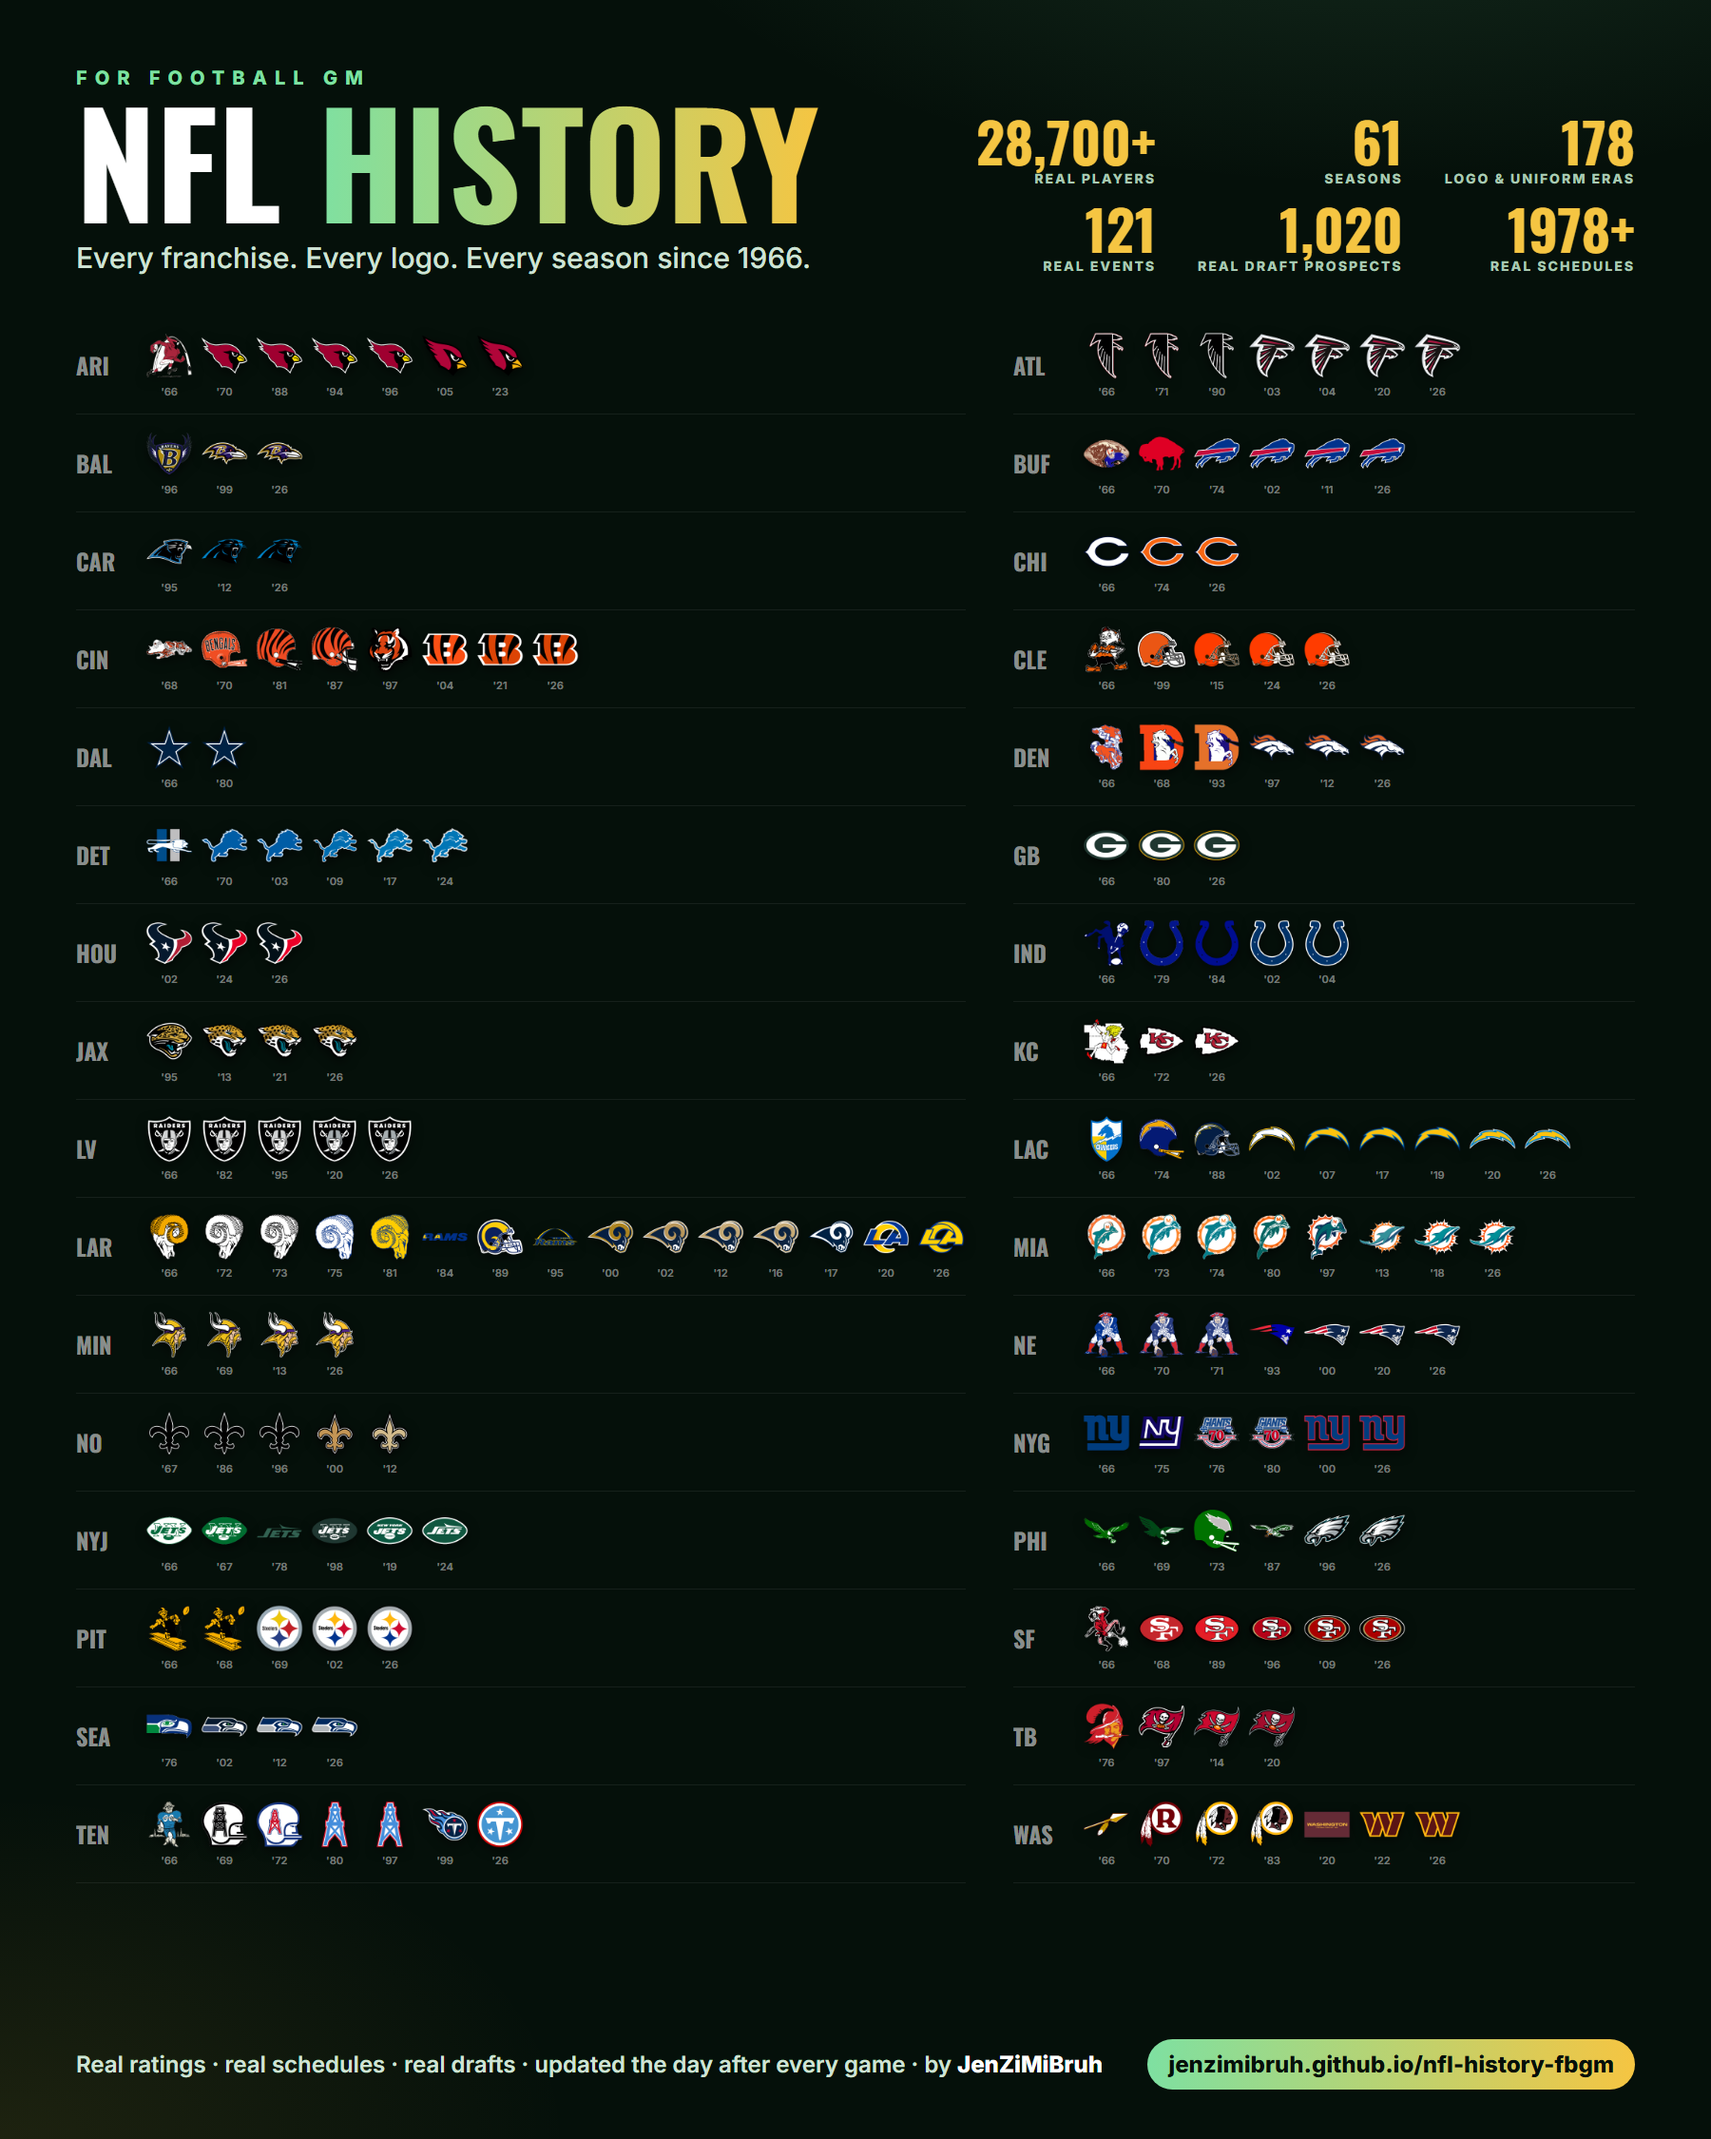
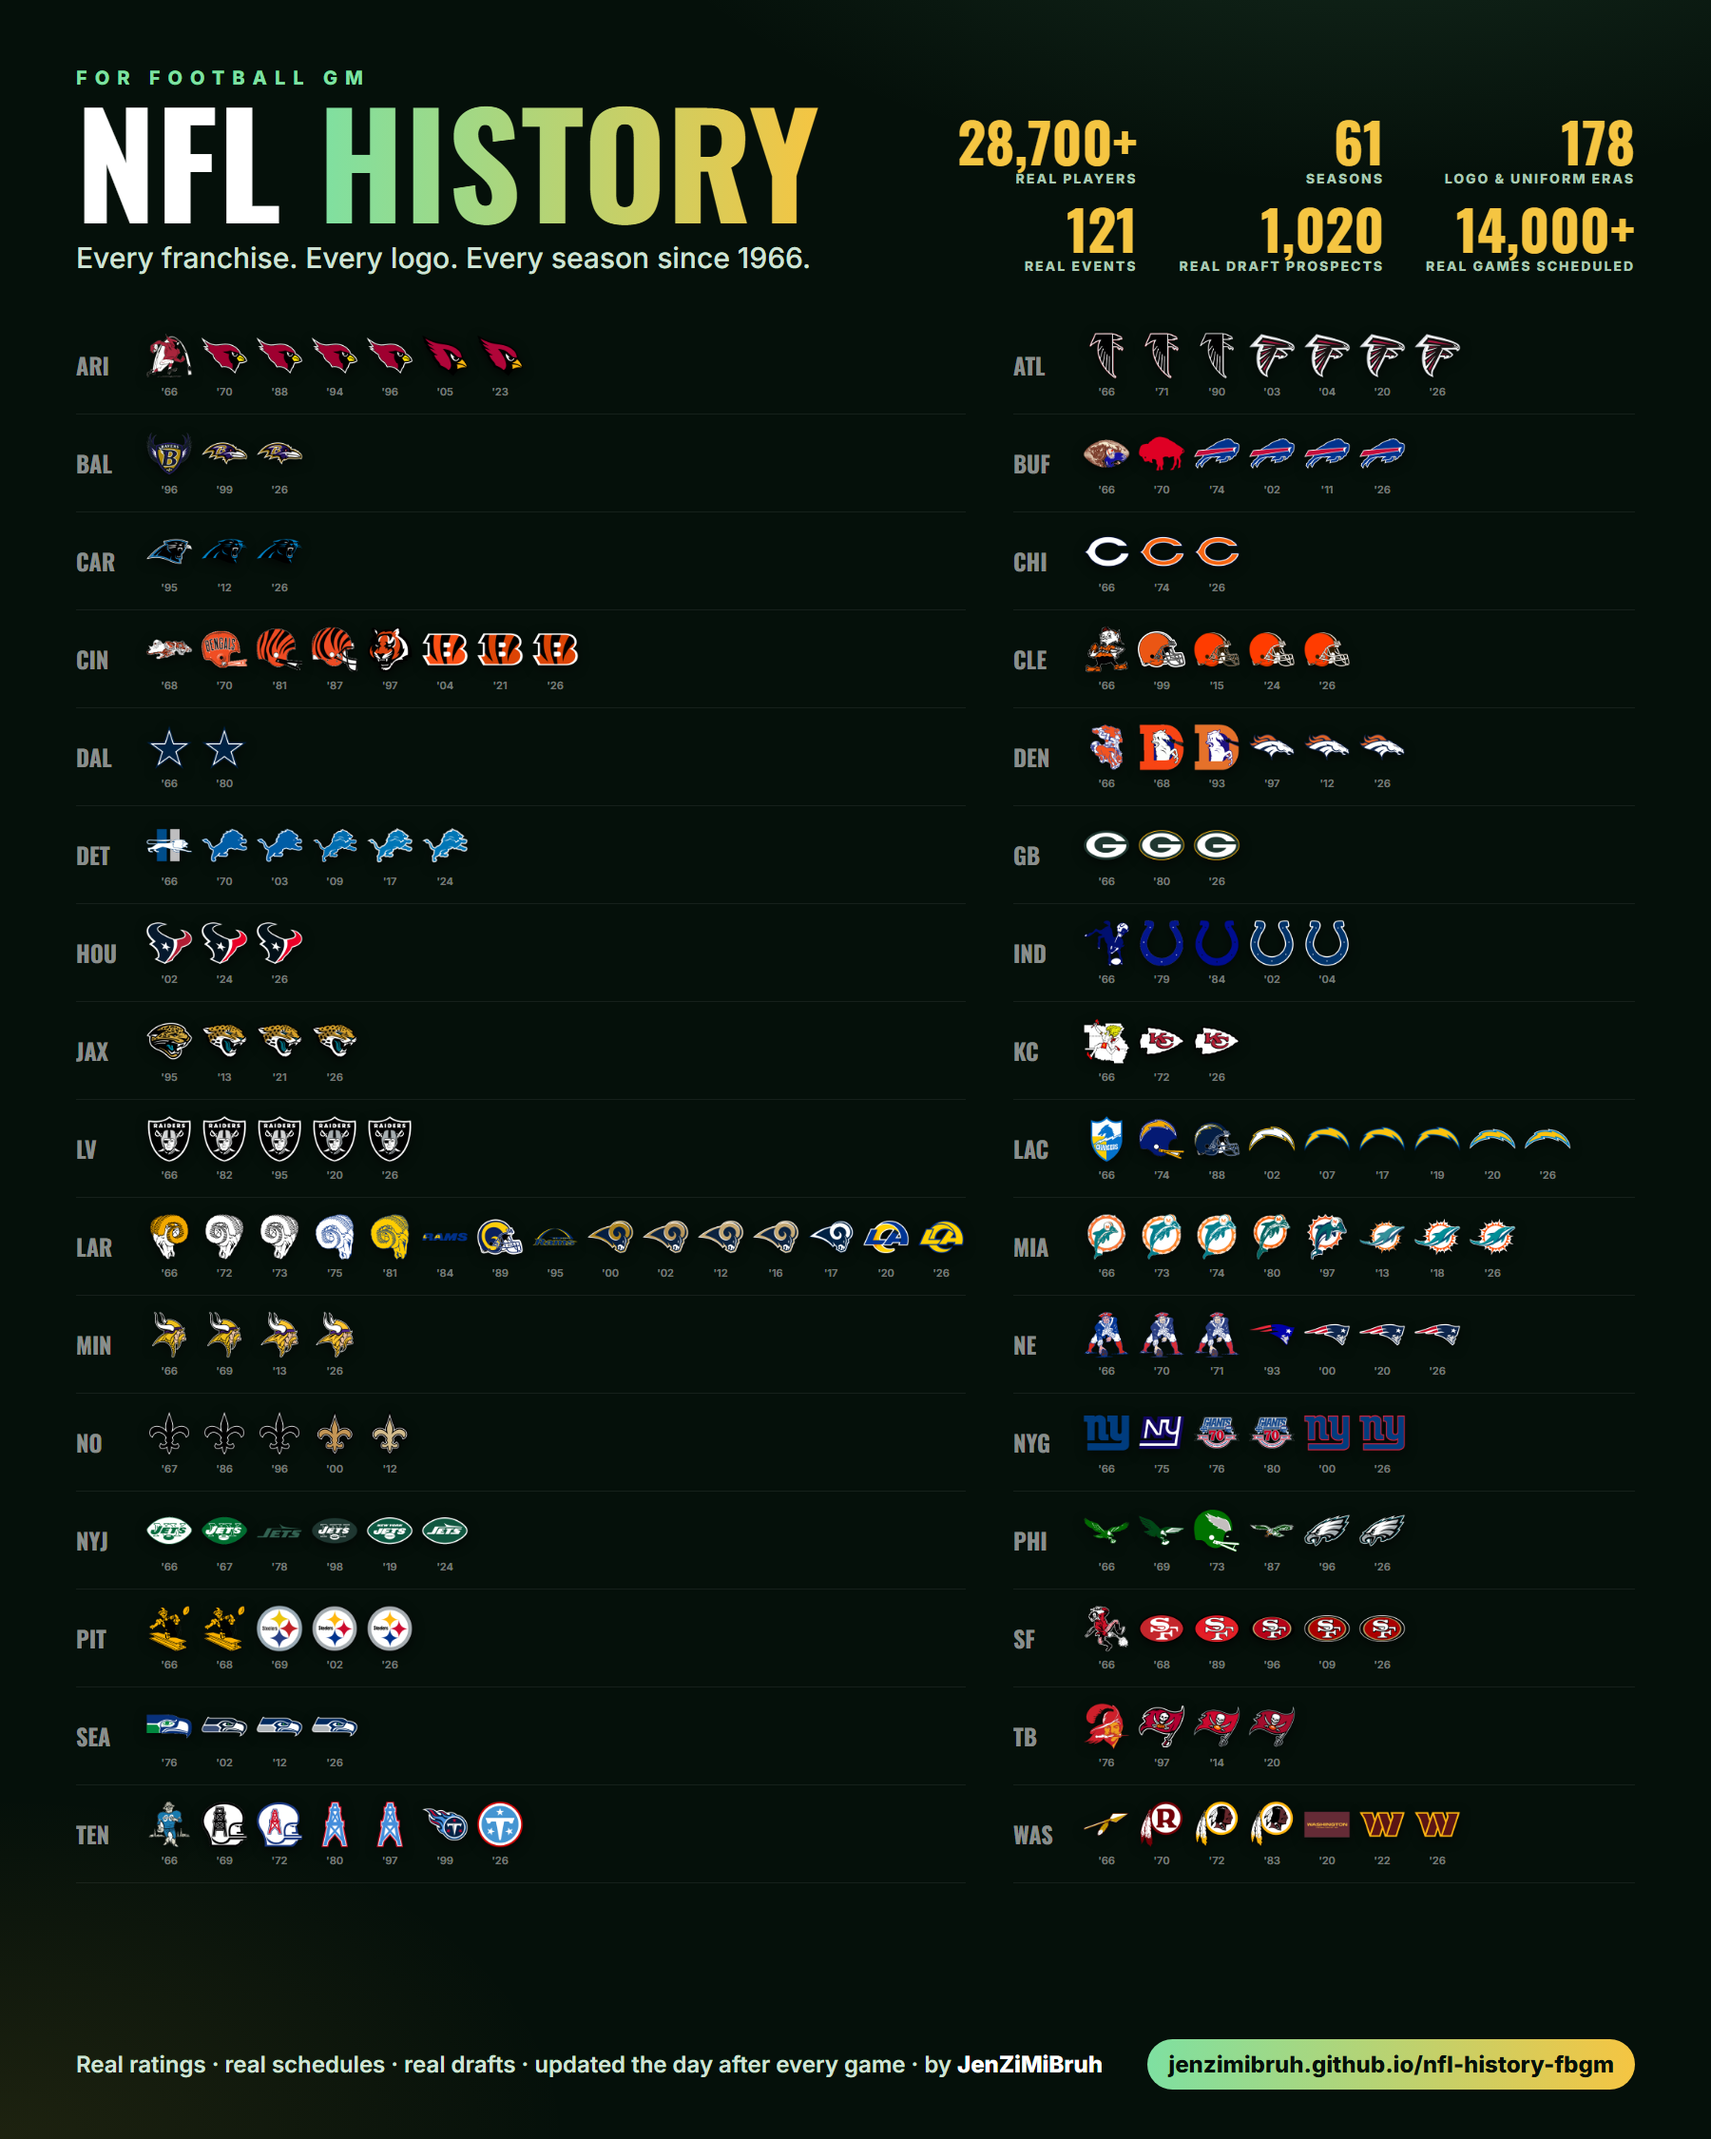
Real schedules go back to 1966, not 1978: fix the wording everywhere; poster counts 14,000+ real games

Changed region(s): [[0.7156, 0.0311, 0.9333, 0.1244], [0.56, 0.0311, 0.6844, 0.1244]]

diff --git a/site/index.html b/site/index.html
@@ -379,7 +379,7 @@ footer small{display:block;opacity:.7;margin-top:8px;max-width:520px}
   <p class="muted" style="max-width:680px">The league file works in stock Football GM. The mod keeps it real after day one, and every piece is a setting you can turn off.</p>
   <div class="feat">
     <div class="f"><div class="ico">📈</div><h3>RPD</h3><p>Real Player Determinism. Careers follow the real one: Jerry Rice plays into his 40s, Barry Sanders walks away. One slider from random to exactly real.</p></div>
-    <div class="f"><div class="ico">🗓</div><h3>Real schedules</h3><p>From 1978 on, every season plays its real schedule: same opponents, same weeks, same byes. Strike seasons included.</p></div>
+    <div class="f"><div class="ico">🗓</div><h3>Real schedules</h3><p>Every season since 1966 plays its real schedule: same opponents, same weeks, same byes. Pre-merger AFL and NFL slates and strike seasons included.</p></div>
     <div class="f"><div class="ico">🎯</div><h3>Real drafts</h3><p>Elway, Manning, Stafford. The real players go to the teams that really took them.</p></div>
     <div class="f"><div class="ico">📰</div><h3>121 real events</h3><p>Retirements, comebacks to the real team, suspensions for the real number of games, each with the real reason.</p></div>
     <div class="f"><div class="ico">🔁</div><h3>Rosters &amp; moves</h3><p>Historical rosters every preseason, mid-season trades on the real week, real jersey numbers, numbers retired when they really were.</p></div>

diff --git a/tools/graphics/poster.html b/tools/graphics/poster.html
@@ -26,7 +26,7 @@ footer b{color:#fff}.pill{background:linear-gradient(90deg,#7ee0a1,#f5c542);colo
   <div class="sub">Every franchise. Every logo. Every season since 1966.</div></div>
   <div class="stats">
     <div><b>28,700+</b><span>real players</span></div><div><b>61</b><span>seasons</span></div><div><b>178</b><span>logo &amp; uniform eras</span></div>
-    <div><b>121</b><span>real events</span></div><div><b>1,020</b><span>real draft prospects</span></div><div><b>1978+</b><span>real schedules</span></div>
+    <div><b>121</b><span>real events</span></div><div><b>1,020</b><span>real draft prospects</span></div><div><b>14,000+</b><span>real games scheduled</span></div>
   </div>
 </header>
 <div class="grid" id="grid"></div>

diff --git a/README.md b/README.md
@@ -147,7 +147,7 @@ Sim past today and you're not drafting made-up players. The 2027, 2028 and 2029 
 | ⭐ **Ratings for everyone** | Built from real production, including the players with almost no stats ([how](docs/ratings.md)) |
 | 🏆 **Awards & honors** | MVP, OPOY/DPOY, rookies, Super Bowl MVP, All-Pro, Pro Bowl, Hall of Fame with induction years, retired numbers |
 | 🎨 **Logos & jerseys by era** | 146 looks in high resolution, built into the file, with today's uniforms matched to the real 2026 ones |
-| 🗓 **Real schedules** | Every game 1978 on, in order |
+| 🗓 **Real schedules** | Every game since 1966, in order |
 | 📰 **121 real-life events** | Each with the reason: Sanders and Luck retiring, Brady's 40 days, Favre's returns, Vick's prison term, Deflategate |
 | 🔴 **Live 2027** | Standings, stats, rosters, injured reserve and injuries through Sunday, Nov 1 (Week 8) |
 | 📸 **Player photos** | Real headshots for 4,000+ players and every draft prospect |
@@ -160,7 +160,7 @@ The league file works anywhere, but stock Football GM forgets history the moment
 | | |
 |---|---|
 | 📈 **RPD** | Real Player Determinism: careers follow the real one, one slider from random to exactly real |
-| 🗓 **Real schedules** | Every real game, in order, from 1978 on |
+| 🗓 **Real schedules** | Every real game, in order, since 1966 |
 | 🎯 **Real drafts** | The real players go to the teams that really took them |
 | 📰 **Real events** | Retirements, comebacks to the real team, suspensions for the real number of games |
 | 🔁 **Rosters & moves** | Historical rosters, mid-season trades on the real week, real jersey numbers and retirements |
@@ -176,7 +176,7 @@ Turn Real Player Determinism up and Jerry Rice still plays into his 40s and Barr
 
 ### Real schedules: every real game, in order
 
-From 1978 on, every season plays its real schedule: same opponents, same weeks, same byes. Strike seasons included.
+Every season since 1966 plays its real schedule: same opponents, same weeks, same byes. The AFL and NFL schedules before the 1970 merger, the 14-game seasons and the strike seasons included.
 
 <p align="center"><img src="assets/schedule.svg" alt="The 2007 Patriots' real schedule, game by game" width="100%"></p>
 

diff --git a/docs/sources.md b/docs/sources.md
@@ -12,7 +12,7 @@ No single source covers 60 years of the NFL, so every player is matched across s
 | Logopedia, Wikimedia Commons | Logos | 146 era looks, rebuilt at high resolution from vector originals where they exist |
 | Wikidata | Deaths, photos | 2,229 dates of death and 4,700 player photos |
 | ESPN | College football | Rosters, recruiting grades, the 2027 draft board and headshots for the draft classes |
-| spreadspoke, nflverse games | Scores 1966+, schedules 1978+ | Team results and real schedules |
+| spreadspoke, nflverse games | Scores and schedules 1966+ | Team results and real schedules |
 | OverTheCap | Contracts 2000+ | Real salaries; earlier ones are estimates scaled to each era |
 | Madden | 2001+ | Cross-checks for the ratings, not their source |
 
